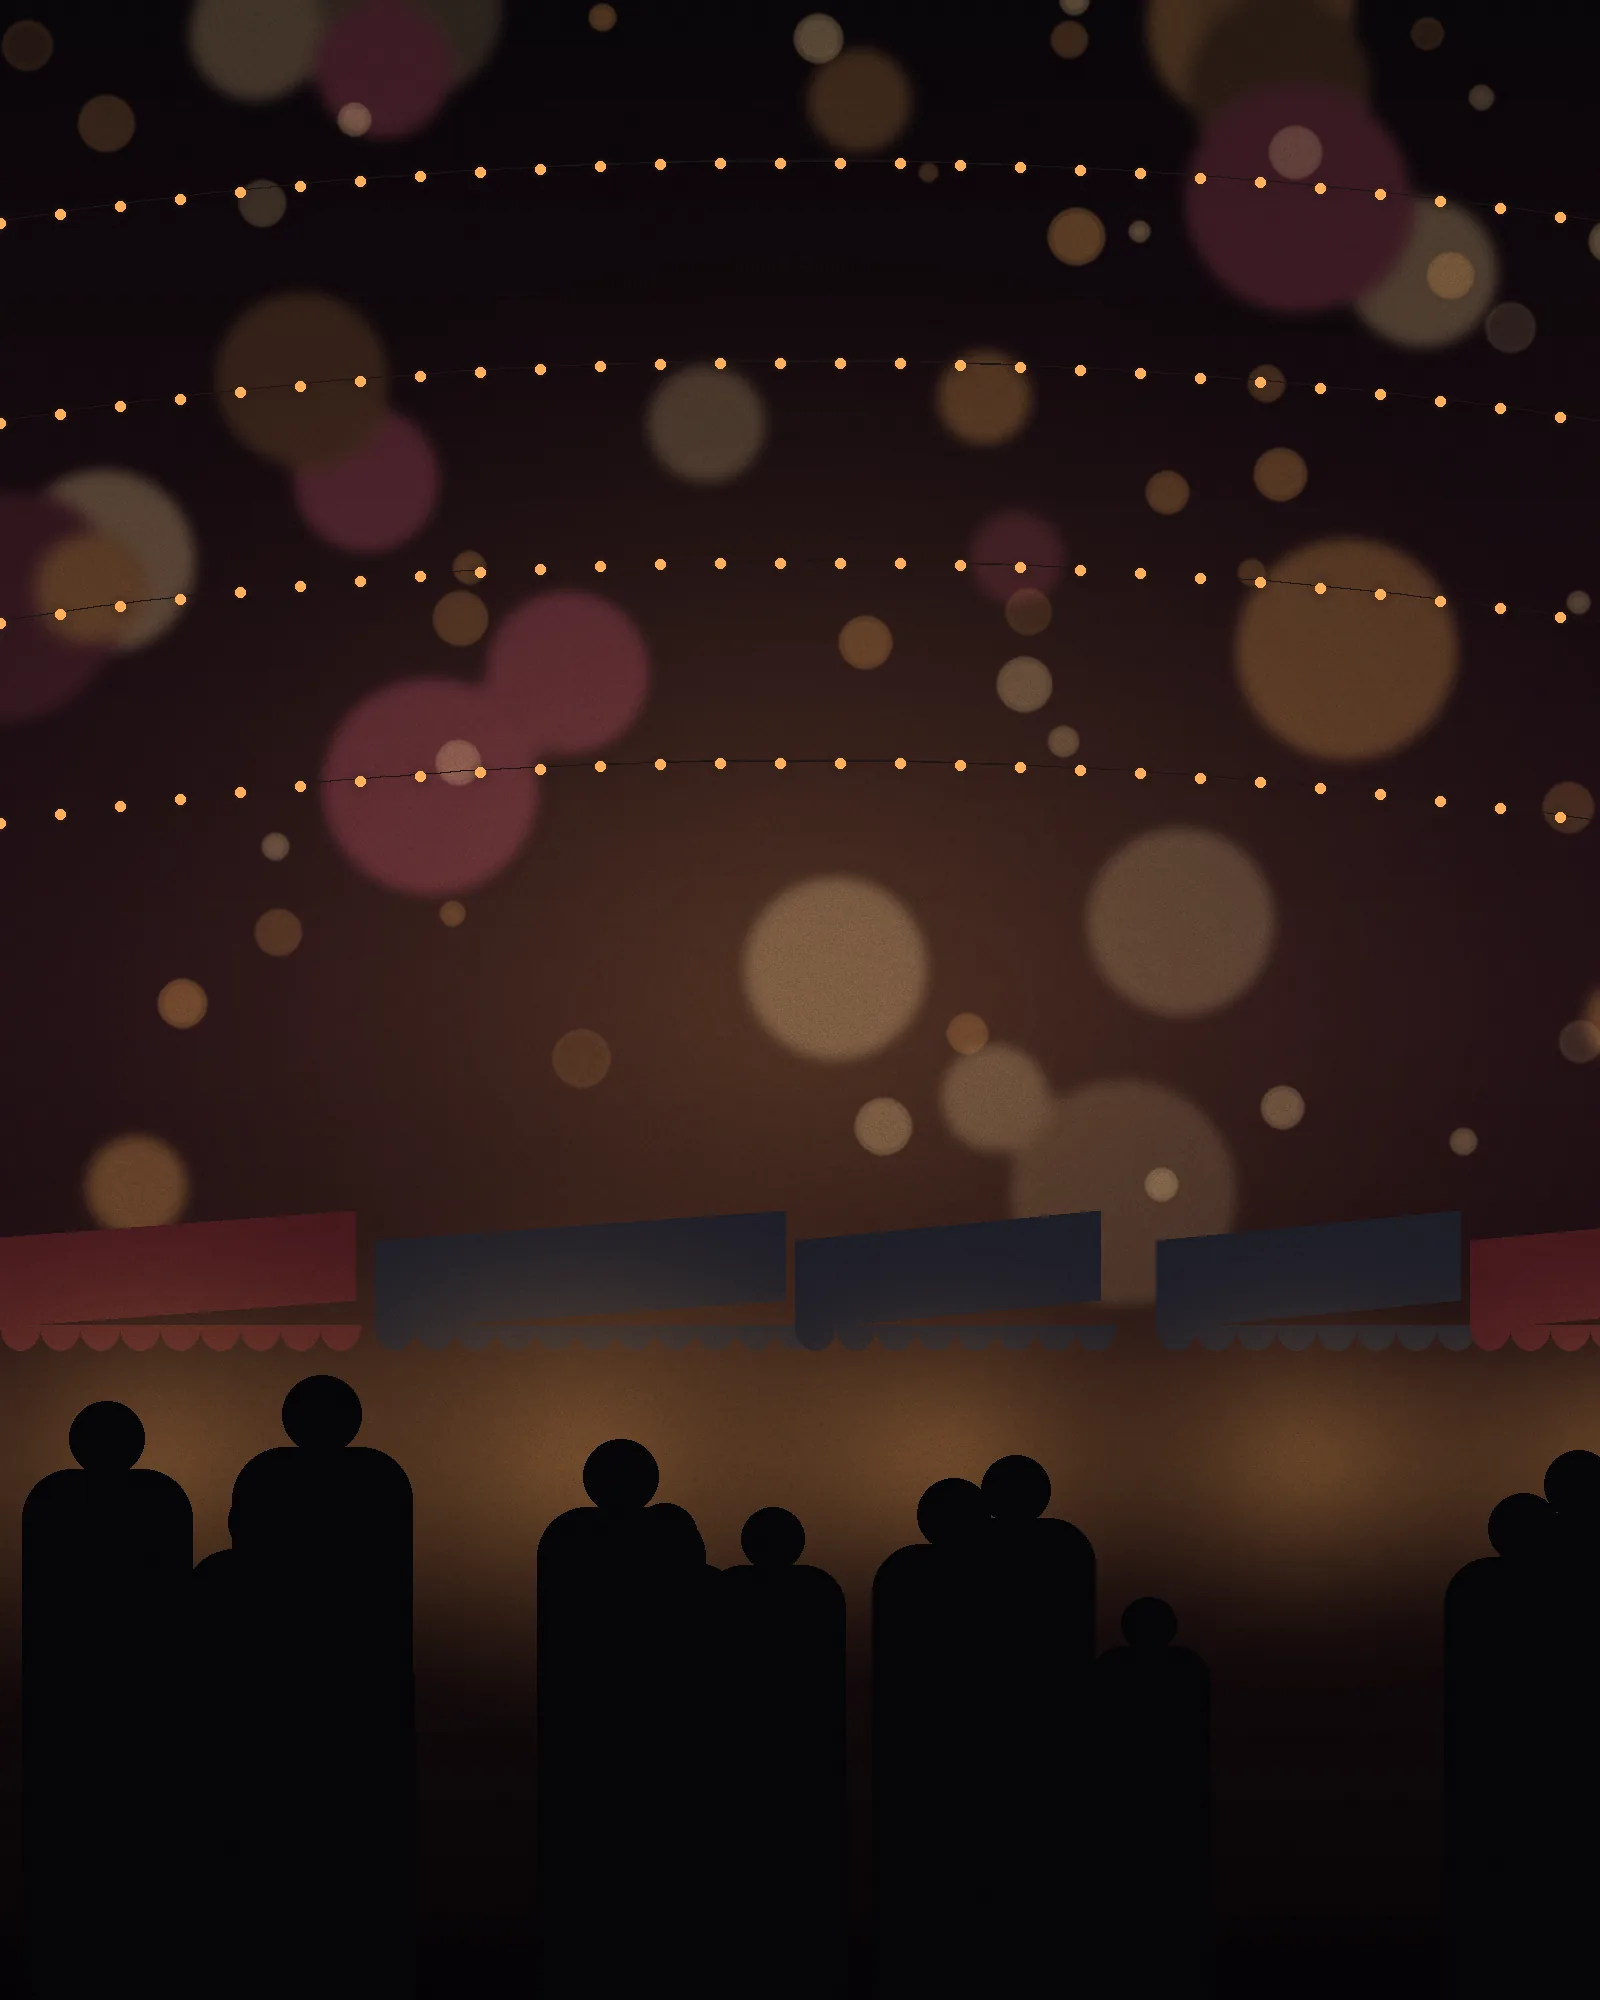
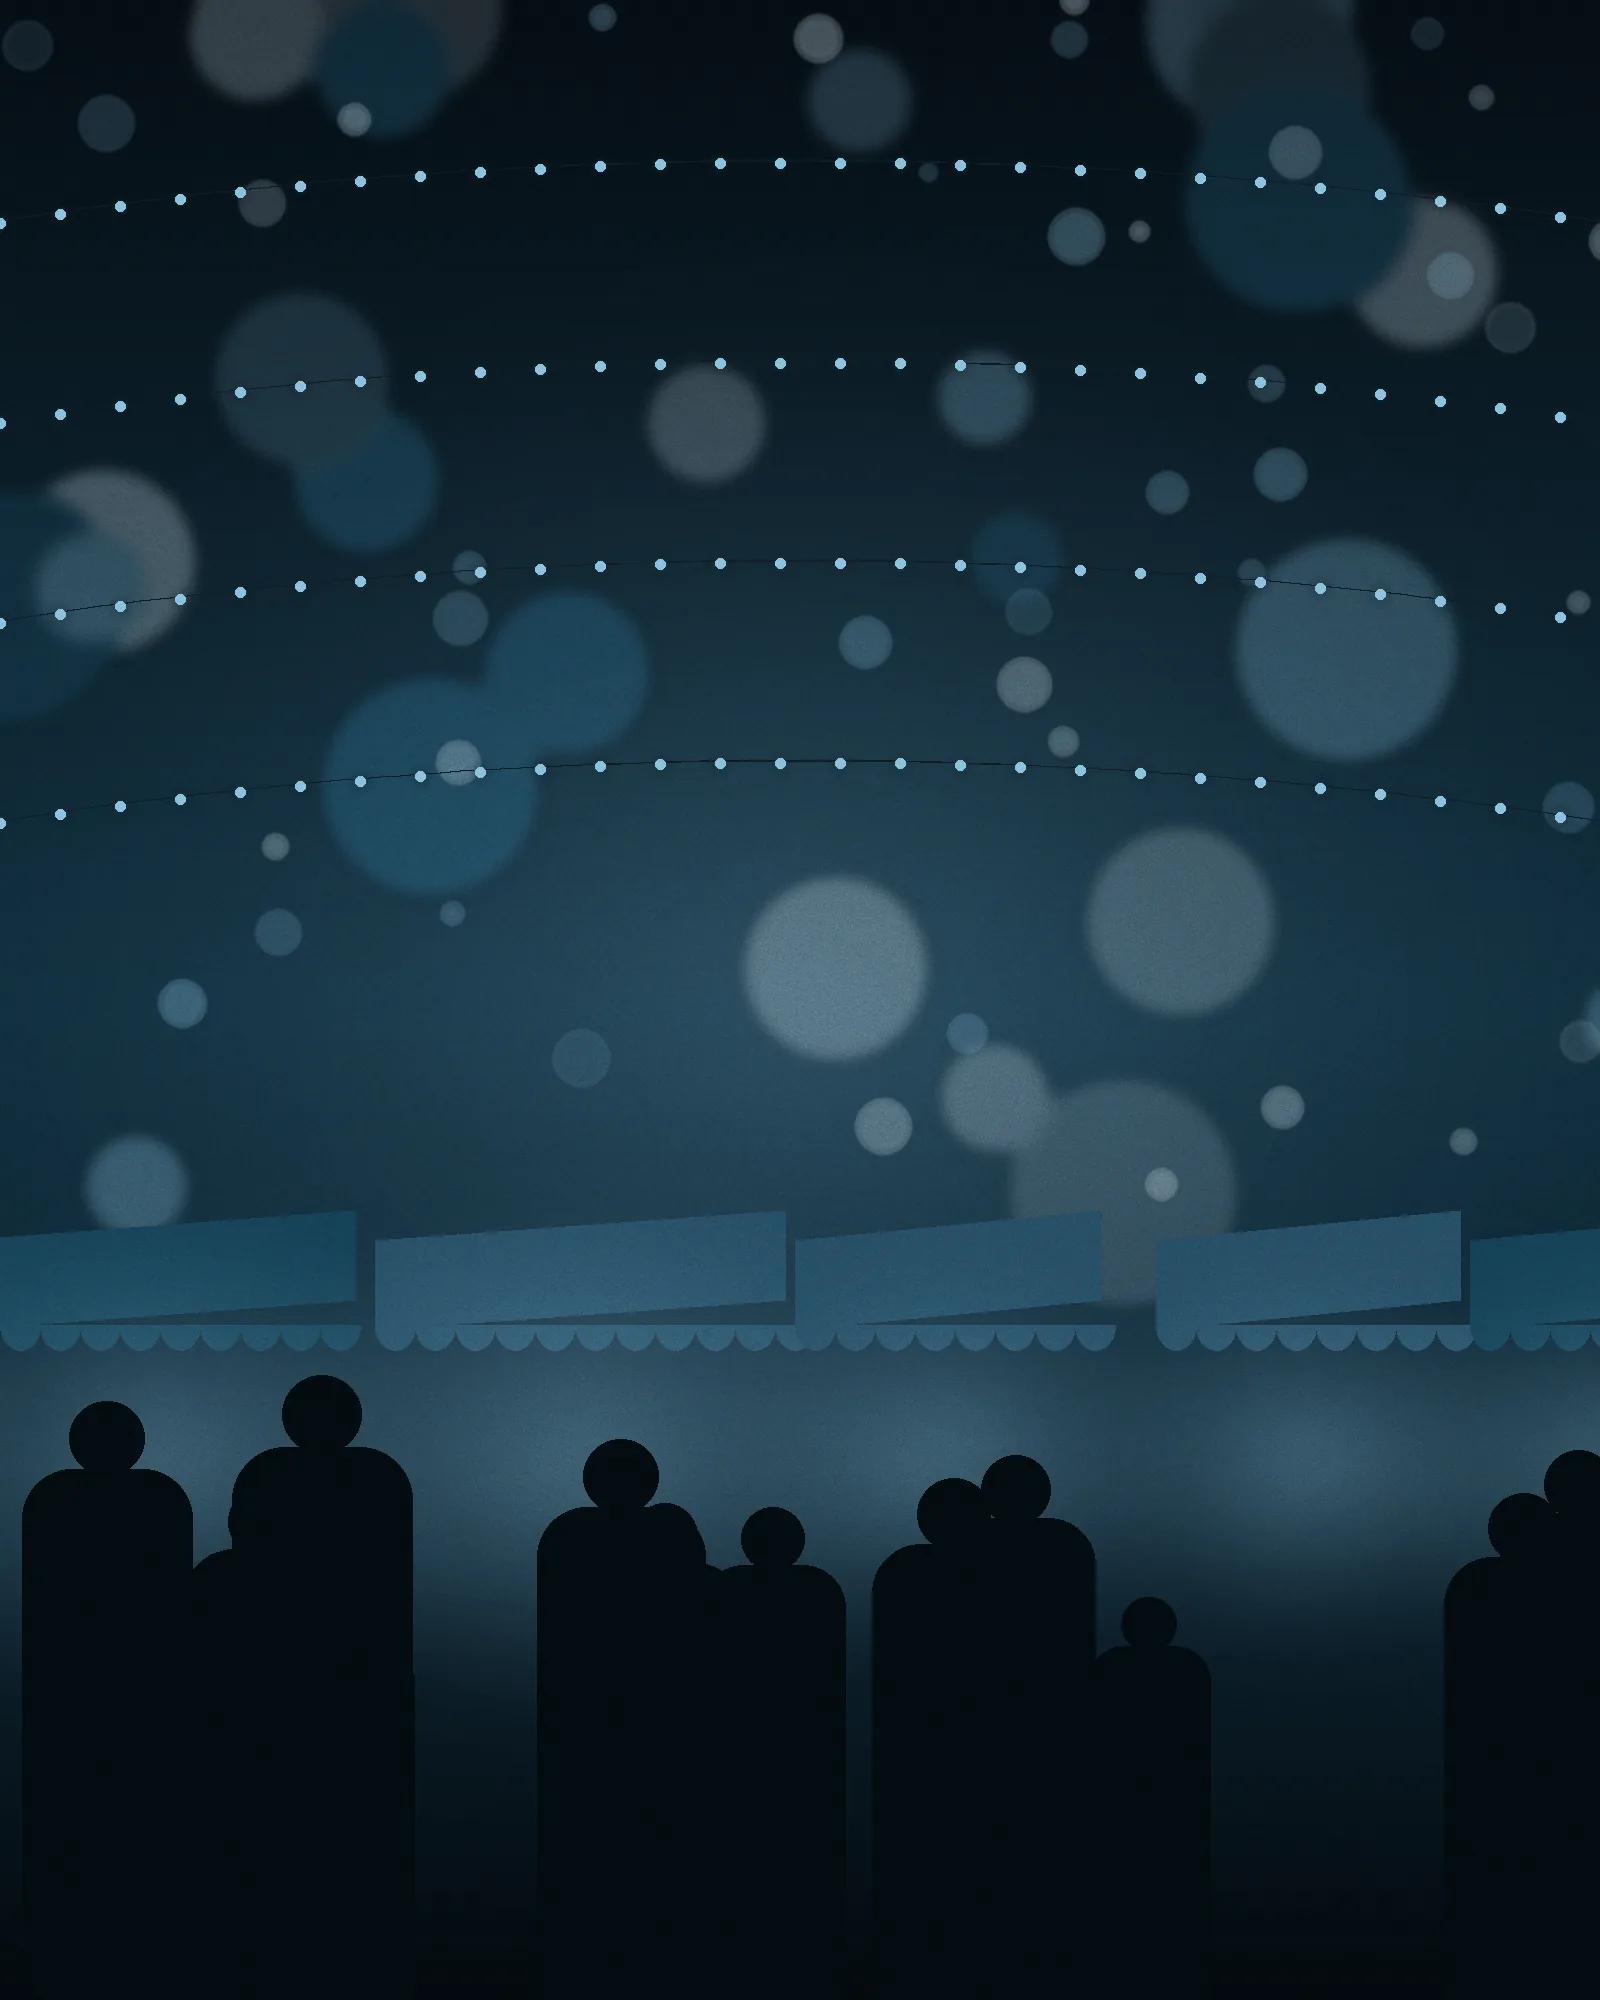
feat(art): repaint the night market with steel and pale-blue lantern bokeh

diff --git a/scripts/art/night_market.py b/scripts/art/night_market.py
@@ -6,8 +6,8 @@ from common import finish, radial_glow, rng, save, vertical_gradient
 
 W, H = 1600, 2000
 rnd = rng(37)
-AMBER = (255, 176, 92)
-ROSE = (220, 96, 120)
+AMBER = (140, 195, 224)  # light steel lanterns
+ROSE = (49, 126, 166)  # steel blue lanterns
 
 
 def bokeh(size, count, r_range, colours, blur):
@@ -25,19 +25,19 @@ def bokeh(size, count, r_range, colours, blur):
 
 def main():
     img = Image.new("RGBA", (W, H), (0, 0, 0, 255))
-    img.paste(vertical_gradient((W, H), [(0.0, (10, 6, 10)), (0.5, (34, 16, 22)), (0.8, (20, 10, 12)), (1.0, (6, 4, 6))]), (0, 0))
+    img.paste(vertical_gradient((W, H), [(0.0, (6, 14, 20)), (0.5, (18, 48, 64)), (0.8, (12, 32, 44)), (1.0, (4, 10, 14))]), (0, 0))
     img.alpha_composite(radial_glow((W, H), (int(W * 0.5), int(H * 0.5)), 800, AMBER, strength=60, squash=1.2))
 
     # Out-of-focus lanterns: big soft far ones, smaller sharper near ones.
-    img.alpha_composite(bokeh((W, H), 26, (50, 120), [AMBER, ROSE, (255, 214, 150)], 8))
-    img.alpha_composite(bokeh((W, H), 45, (10, 30), [AMBER, (255, 214, 150)], 1.5))
+    img.alpha_composite(bokeh((W, H), 26, (50, 120), [AMBER, ROSE, (214, 233, 244)], 8))
+    img.alpha_composite(bokeh((W, H), 45, (10, 30), [AMBER, (214, 233, 244)], 1.5))
 
     d = ImageDraw.Draw(img)
     # Strings of lights.
     for k in range(4):
         y0 = int(H * (0.08 + k * 0.1))
         pts = [(x, y0 + int(60 * ((x / W - 0.5) ** 2) * 4)) for x in range(0, W + 1, 20)]
-        d.line(pts, fill=(30, 20, 20), width=2)
+        d.line(pts, fill=(14, 30, 40), width=2)
         glow = Image.new("RGBA", (W, H), (0, 0, 0, 0))
         g = ImageDraw.Draw(glow)
         for x, y in pts[::3]:
@@ -50,7 +50,7 @@ def main():
     x = -40
     while x < W:
         aw = rnd.randint(260, 420)
-        col = rnd.choice([(70, 24, 30), (60, 40, 20), (30, 30, 40)])
+        col = rnd.choice([(22, 66, 88), (30, 52, 66), (40, 80, 104)])
         d.polygon([(x, top), (x + aw, top - 30), (x + aw, top + 60), (x, top + 90)], fill=col)
         for sx in range(x, x + aw, 40):
             d.pieslice([sx, top + 60, sx + 40, top + 110], 0, 180, fill=col)
@@ -65,7 +65,7 @@ def main():
         h = rnd.randint(420, 640)
         base = H + rnd.randint(0, 80)
         w = h * 0.28
-        col = (6, 5, 7)
+        col = (4, 12, 16)
         d.ellipse([cx - w * 0.22, base - h, cx + w * 0.22, base - h + w * 0.44], fill=col)  # head
         d.rounded_rectangle([cx - w / 2, base - h + w * 0.4, cx + w / 2, base], radius=int(w * 0.3), fill=col)  # body
 
